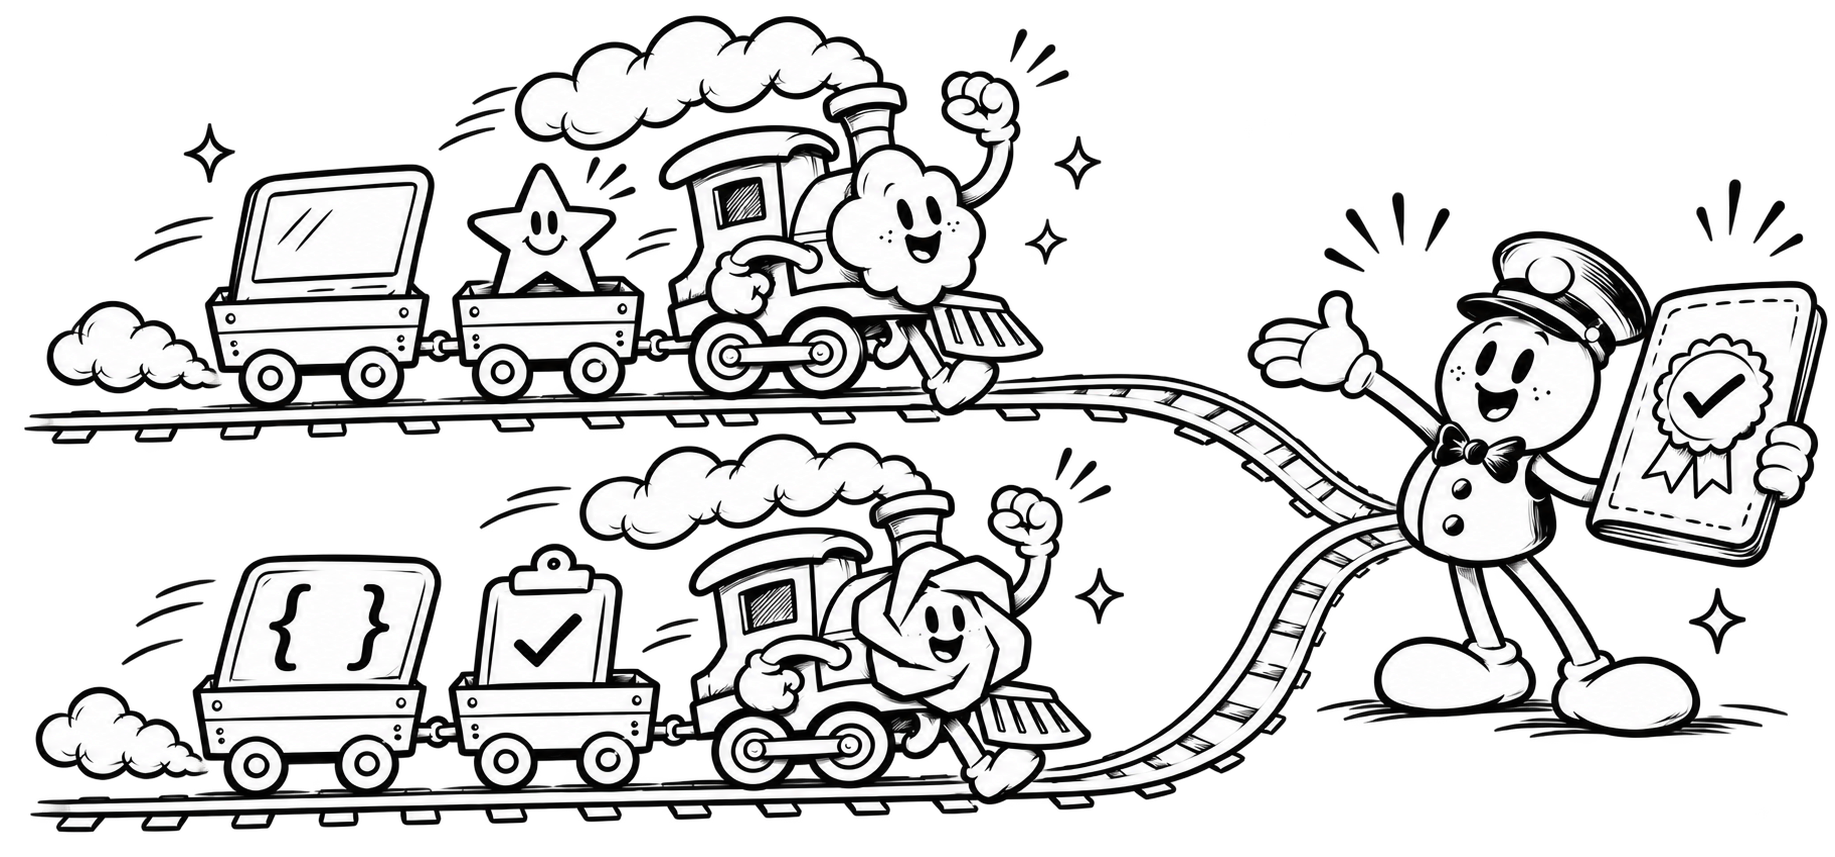
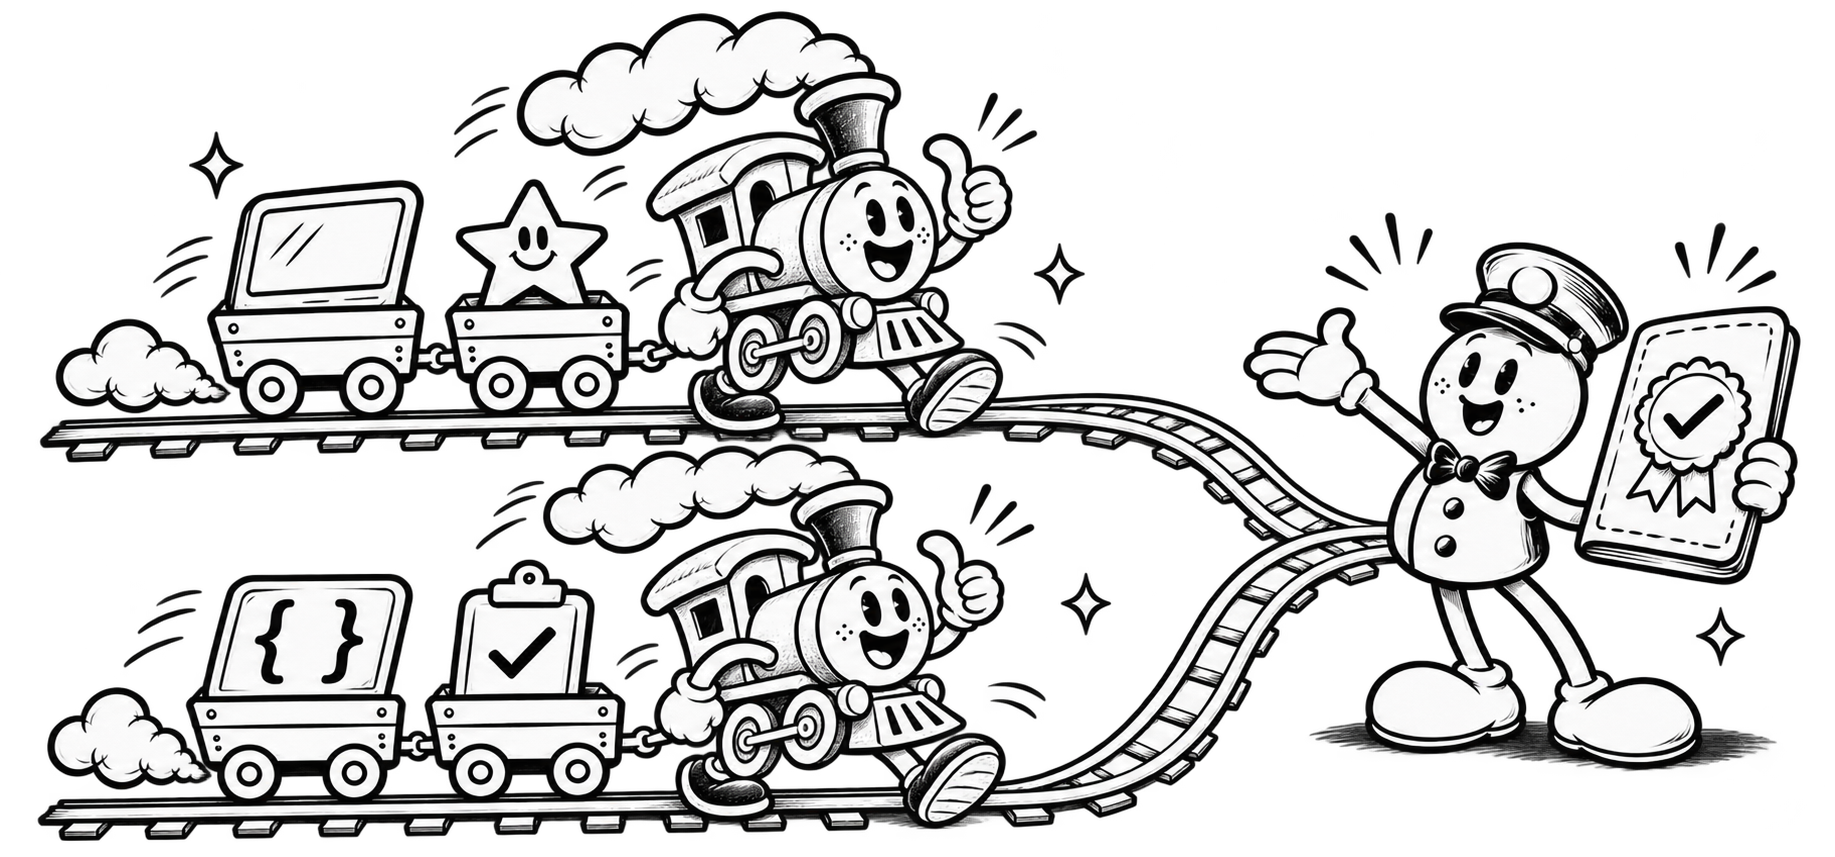
docs: standardized cartoon set — flow, locomotives, certificate and memory illustrations

diff --git a/site/index.html b/site/index.html
@@ -272,7 +272,7 @@ footer .wrap { display: flex; gap: 1.6rem; flex-wrap: wrap; }
       <h2>Entrada, percurso e conferência</h2>
       <p class="intro">O portão de entrada confirma os requisitos. Cada tarefa percorre seu trilho, com validações próprias no meio quando necessárias. No destino, fiscais independentes conferem os carimbos exigidos para aquela entrega.</p>
       <figure class="art" tabindex="0">
-        <img src="img/passaporte-cartoon.png" width="1837" height="856" loading="lazy" alt="Entrevista, vagão com tarefas, fiscal examinando o passaporte e entrega validada; uma seta devolve a tarefa para correção.">
+        <img src="img/passaporte-cartoon.png" width="1838" height="856" loading="lazy" alt="O dono, de óculos, aperta a mão do documento depois da entrevista; um vagão leva as tarefas; o fiscal examina o documento com uma lupa, com o selo ainda vazio; o documento sai com os selos e uma bandeira. Uma seta devolve a tarefa do fiscal para o vagão.">
         <figcaption>O fiscal confere a evidência. Se faltar um carimbo, devolve a tarefa ao executor.</figcaption>
       </figure>
       <ol class="roles" aria-label="Quem conduz cada etapa no exemplo">
@@ -290,7 +290,7 @@ footer .wrap { display: flex; gap: 1.6rem; flex-wrap: wrap; }
       <h2>O carimbo é um certificado no documento</h2>
       <p class="intro">Como a assinatura de um especialista num documento revisado: o certificado vai no apêndice da spec da demanda e é assinado pelo commit de quem validou. O dono assina o critério; cada revisor assina o próprio veredito; quem executou não assina nada.</p>
       <figure class="art" tabindex="0">
-        <img src="img/certificado.svg" width="1200" height="600" loading="lazy" alt="A spec da demanda com o critério no alto e três selos no apêndice: o aceite do dono e os vereditos de quality e bugs. Cada selo desce até um commit no trilho do Git; o dono aceita à esquerda, o revisor carimba à direita.">
+        <img src="img/certificado-cartoon.png" width="1838" height="856" loading="lazy" alt="O documento da demanda, sorridente, com três selos no apêndice; o dono, de óculos, assina o primeiro com uma caneta-tinteiro e o fiscal de quepe carimba o último. Cada selo desce por uma linha pontilhada até um marco no trilho.">
         <figcaption>Mudou o código ou o critério, o certificado cai. Está no Git: outra máquina, outro agente ou o CI conferem a mesma prova.</figcaption>
       </figure>
     </div>
@@ -313,7 +313,7 @@ footer .wrap { display: flex; gap: 1.6rem; flex-wrap: wrap; }
       <h2>A memória aprende sozinha</h2>
       <p class="intro">Ninguém precisa lembrar de um comando. O configure cria o mapa do código, cada demanda o confere antes da entrevista, e cada entrega termina num sonho: um extrator isolado lê as sessões inteiras, com o que cada subagente escreveu, e só fica a nota que o código confirma.</p>
       <figure class="art" tabindex="0">
-        <img src="img/memoria-loop.svg" width="1200" height="640" loading="lazy" alt="Um trilho circular com três estações: configurar cria o mapa, planejar confere o mapa e entregar leva ao sonho. No centro, o caderno de notas conferidas no código abre a próxima sessão.">
+        <img src="img/memoria-cartoon.png" width="1836" height="856" loading="lazy" alt="A locomotiva corre num trilho circular com três placas: um mapa (configurar), uma prancheta com lupa (planejar) e uma lua dormindo (o sonho depois da entrega). No centro, um caderno sorridente com um lápis e um visto.">
         <figcaption>A memória fica na máquina, fora dos arquivos versionados. Não bloqueia a entrega: é o loop que a fecha.</figcaption>
       </figure>
     </div>

diff --git a/README.md b/README.md
@@ -99,7 +99,7 @@ Os nomes `accessibility` e `contract` são exemplos de portões que o projeto re
 ao executor. O comando `fullchico-harness deliver` confere o passaporte antes de declarar a
 entrega concluída.
 
-![Claude entrevista e executa o vagão, Codex revisa e o passaporte chega carimbado](site/img/passaporte-cartoon.png)
+![O dono aceita o critério, o vagão executa, o fiscal confere e o documento chega certificado](site/img/passaporte-cartoon.png)
 
 Neste exemplo, o mascote do Claude conduz a entrevista e a execução; o do Codex faz a revisão.
 Esses papéis podem ser configurados por projeto:
@@ -249,7 +249,7 @@ ticket) e é assinado pelo commit do responsável pelo portão, com o trailer `C
 - **onde vale:** em qualquer máquina, agente ou CI, porque está no Git. As reprovações também ficam no
   apêndice, e o limite de tentativas vai junto com a demanda.
 
-![A spec da demanda com o aceite do dono e os selos dos revisores no apêndice, cada um ligado a um commit](site/img/certificado.svg)
+![O dono assina o primeiro selo do apêndice e o fiscal carimba o último; cada selo desce até um marco no trilho](site/img/certificado-cartoon.png)
 
 Arquivos `.md` e `docs/` fora da demanda não invalidam nada; mexer na configuração local do Git ou publicar
 (push, PR) também não, porque não é conteúdo.
@@ -267,7 +267,7 @@ resumos, notas, glossário e ADRs. A memória fica fora dos arquivos versionados
 
 **A memória é um loop do processo, não um comando para lembrar:**
 
-![Trilho circular: configurar cria o mapa, planejar confere o mapa, entregar leva ao sonho; no centro, as notas abrem a próxima sessão](site/img/memoria-loop.svg)
+![A locomotiva percorre o trilho circular: mapa, prancheta com lupa e o sonho depois da entrega; no centro, o caderno de notas](site/img/memoria-cartoon.png)
 
 | Momento | Quem dispara | O que acontece |
 |---|---|---|
